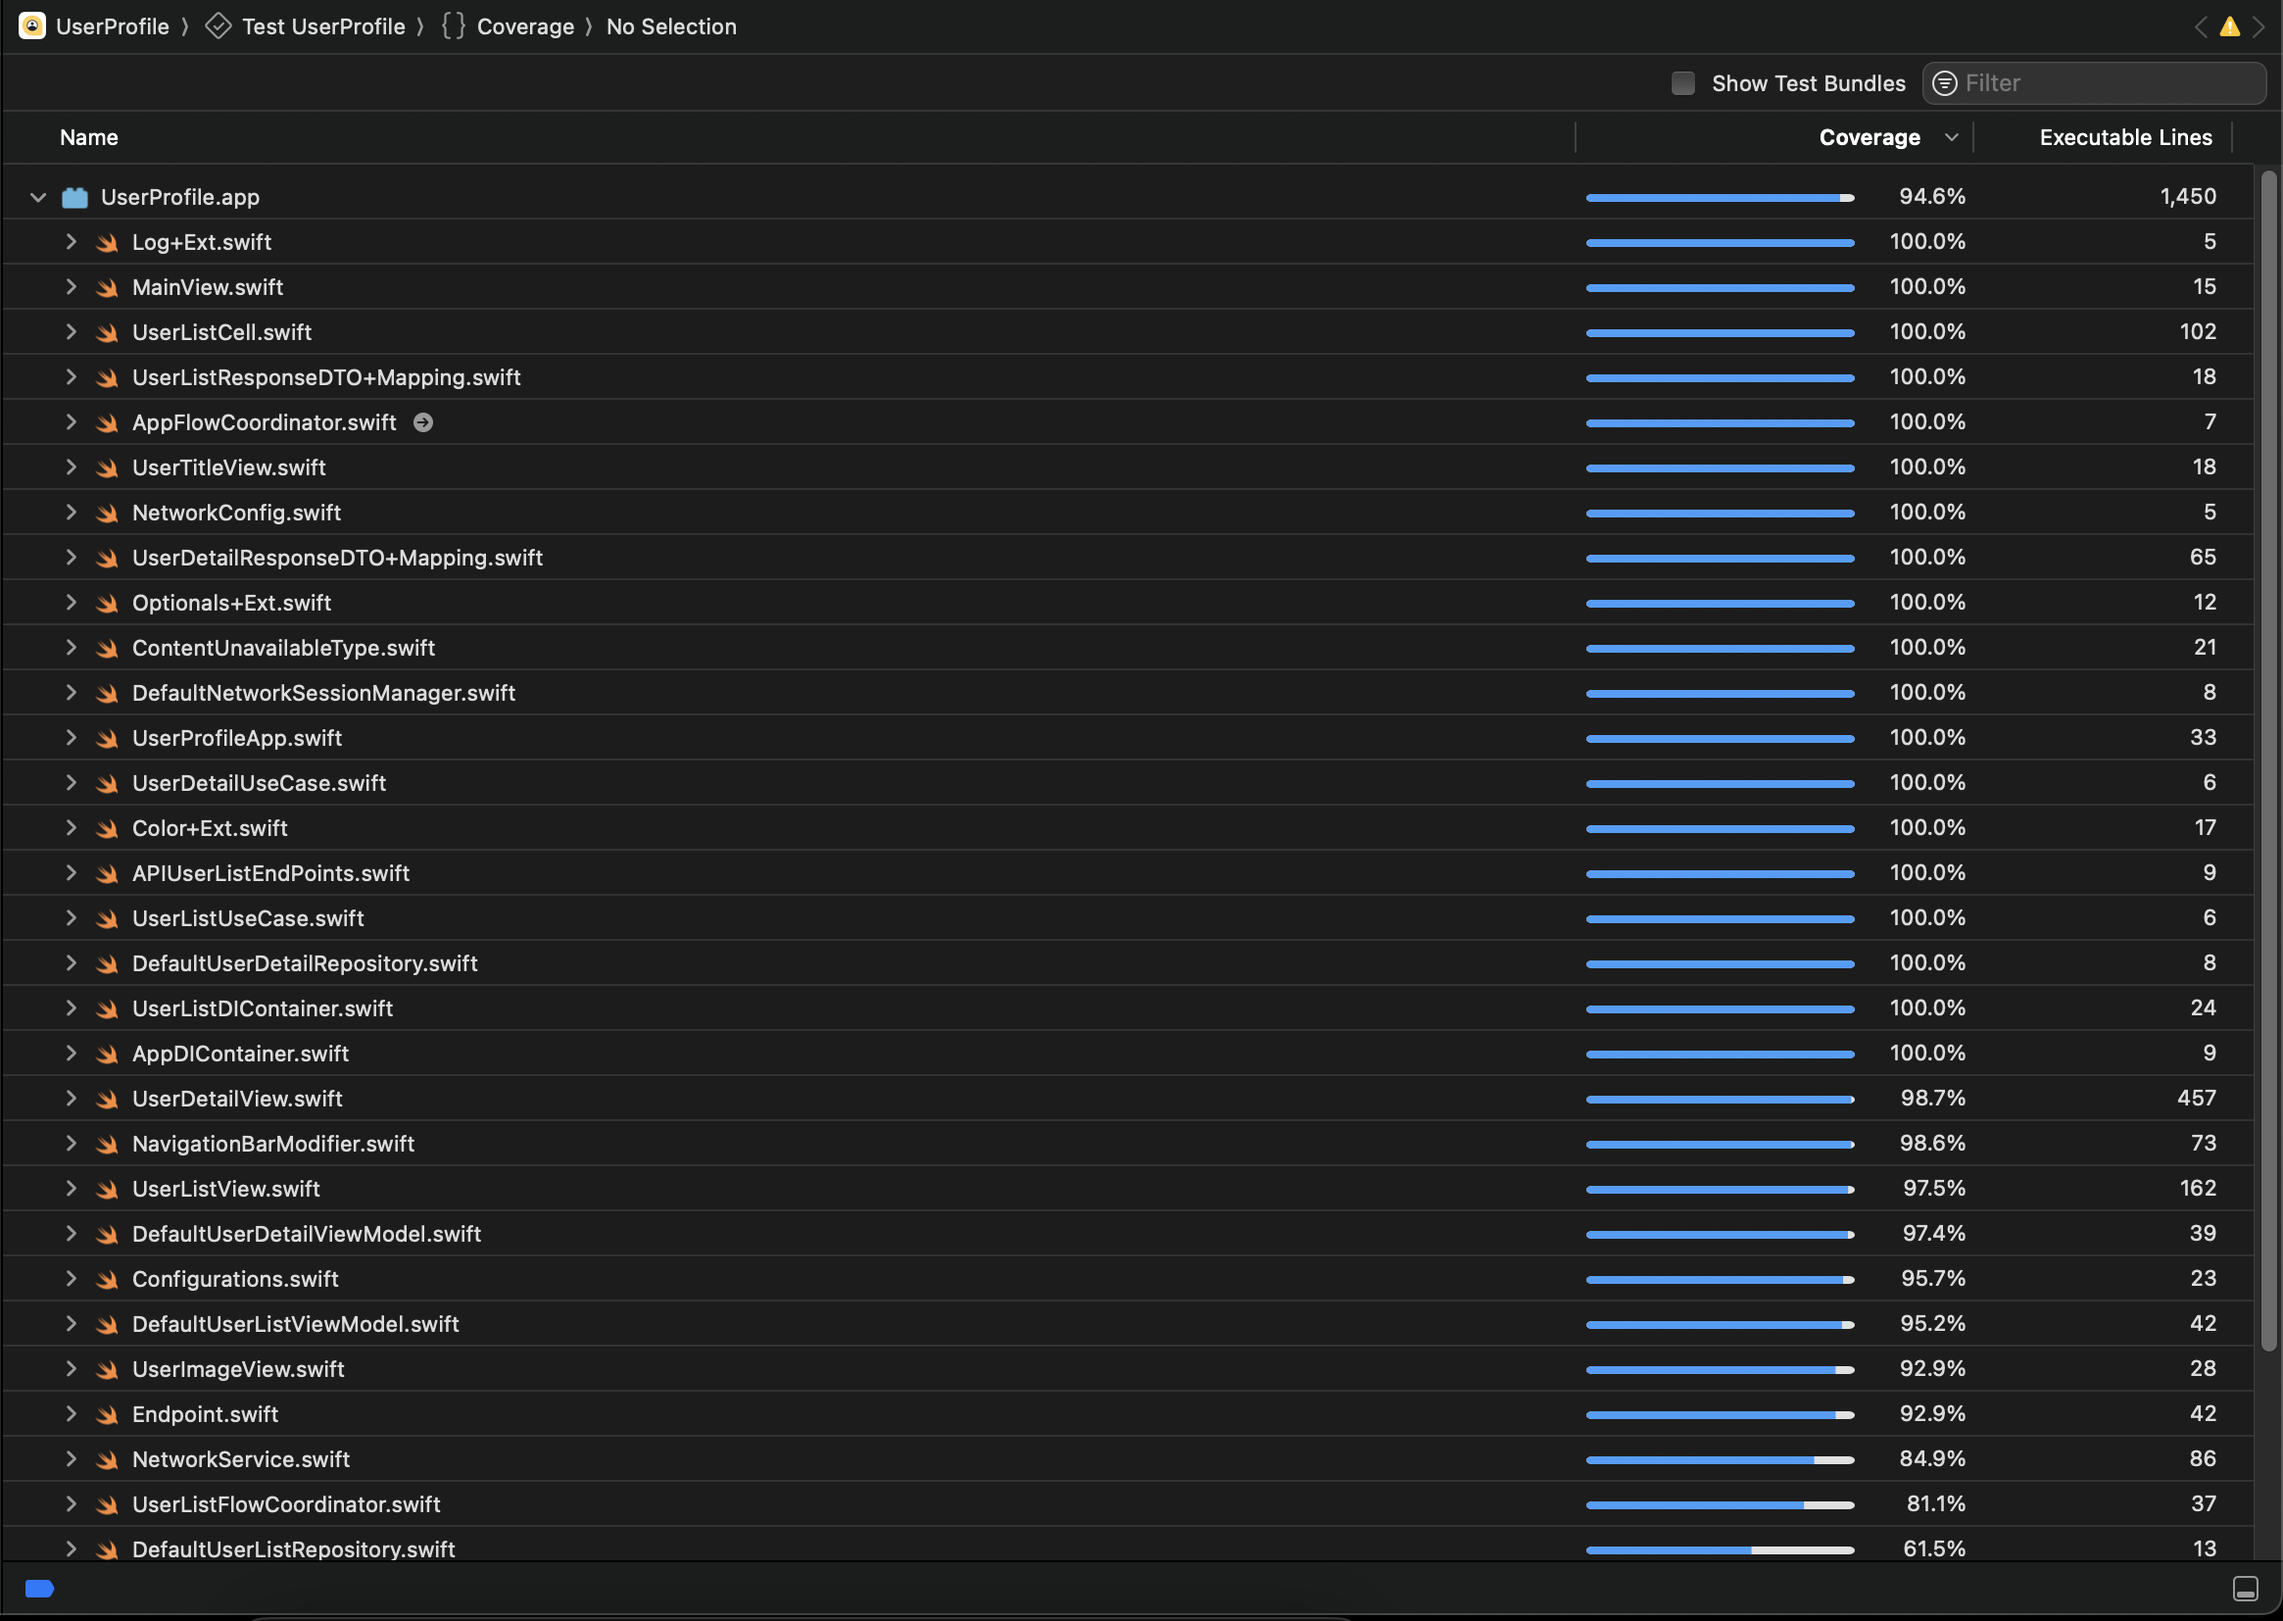
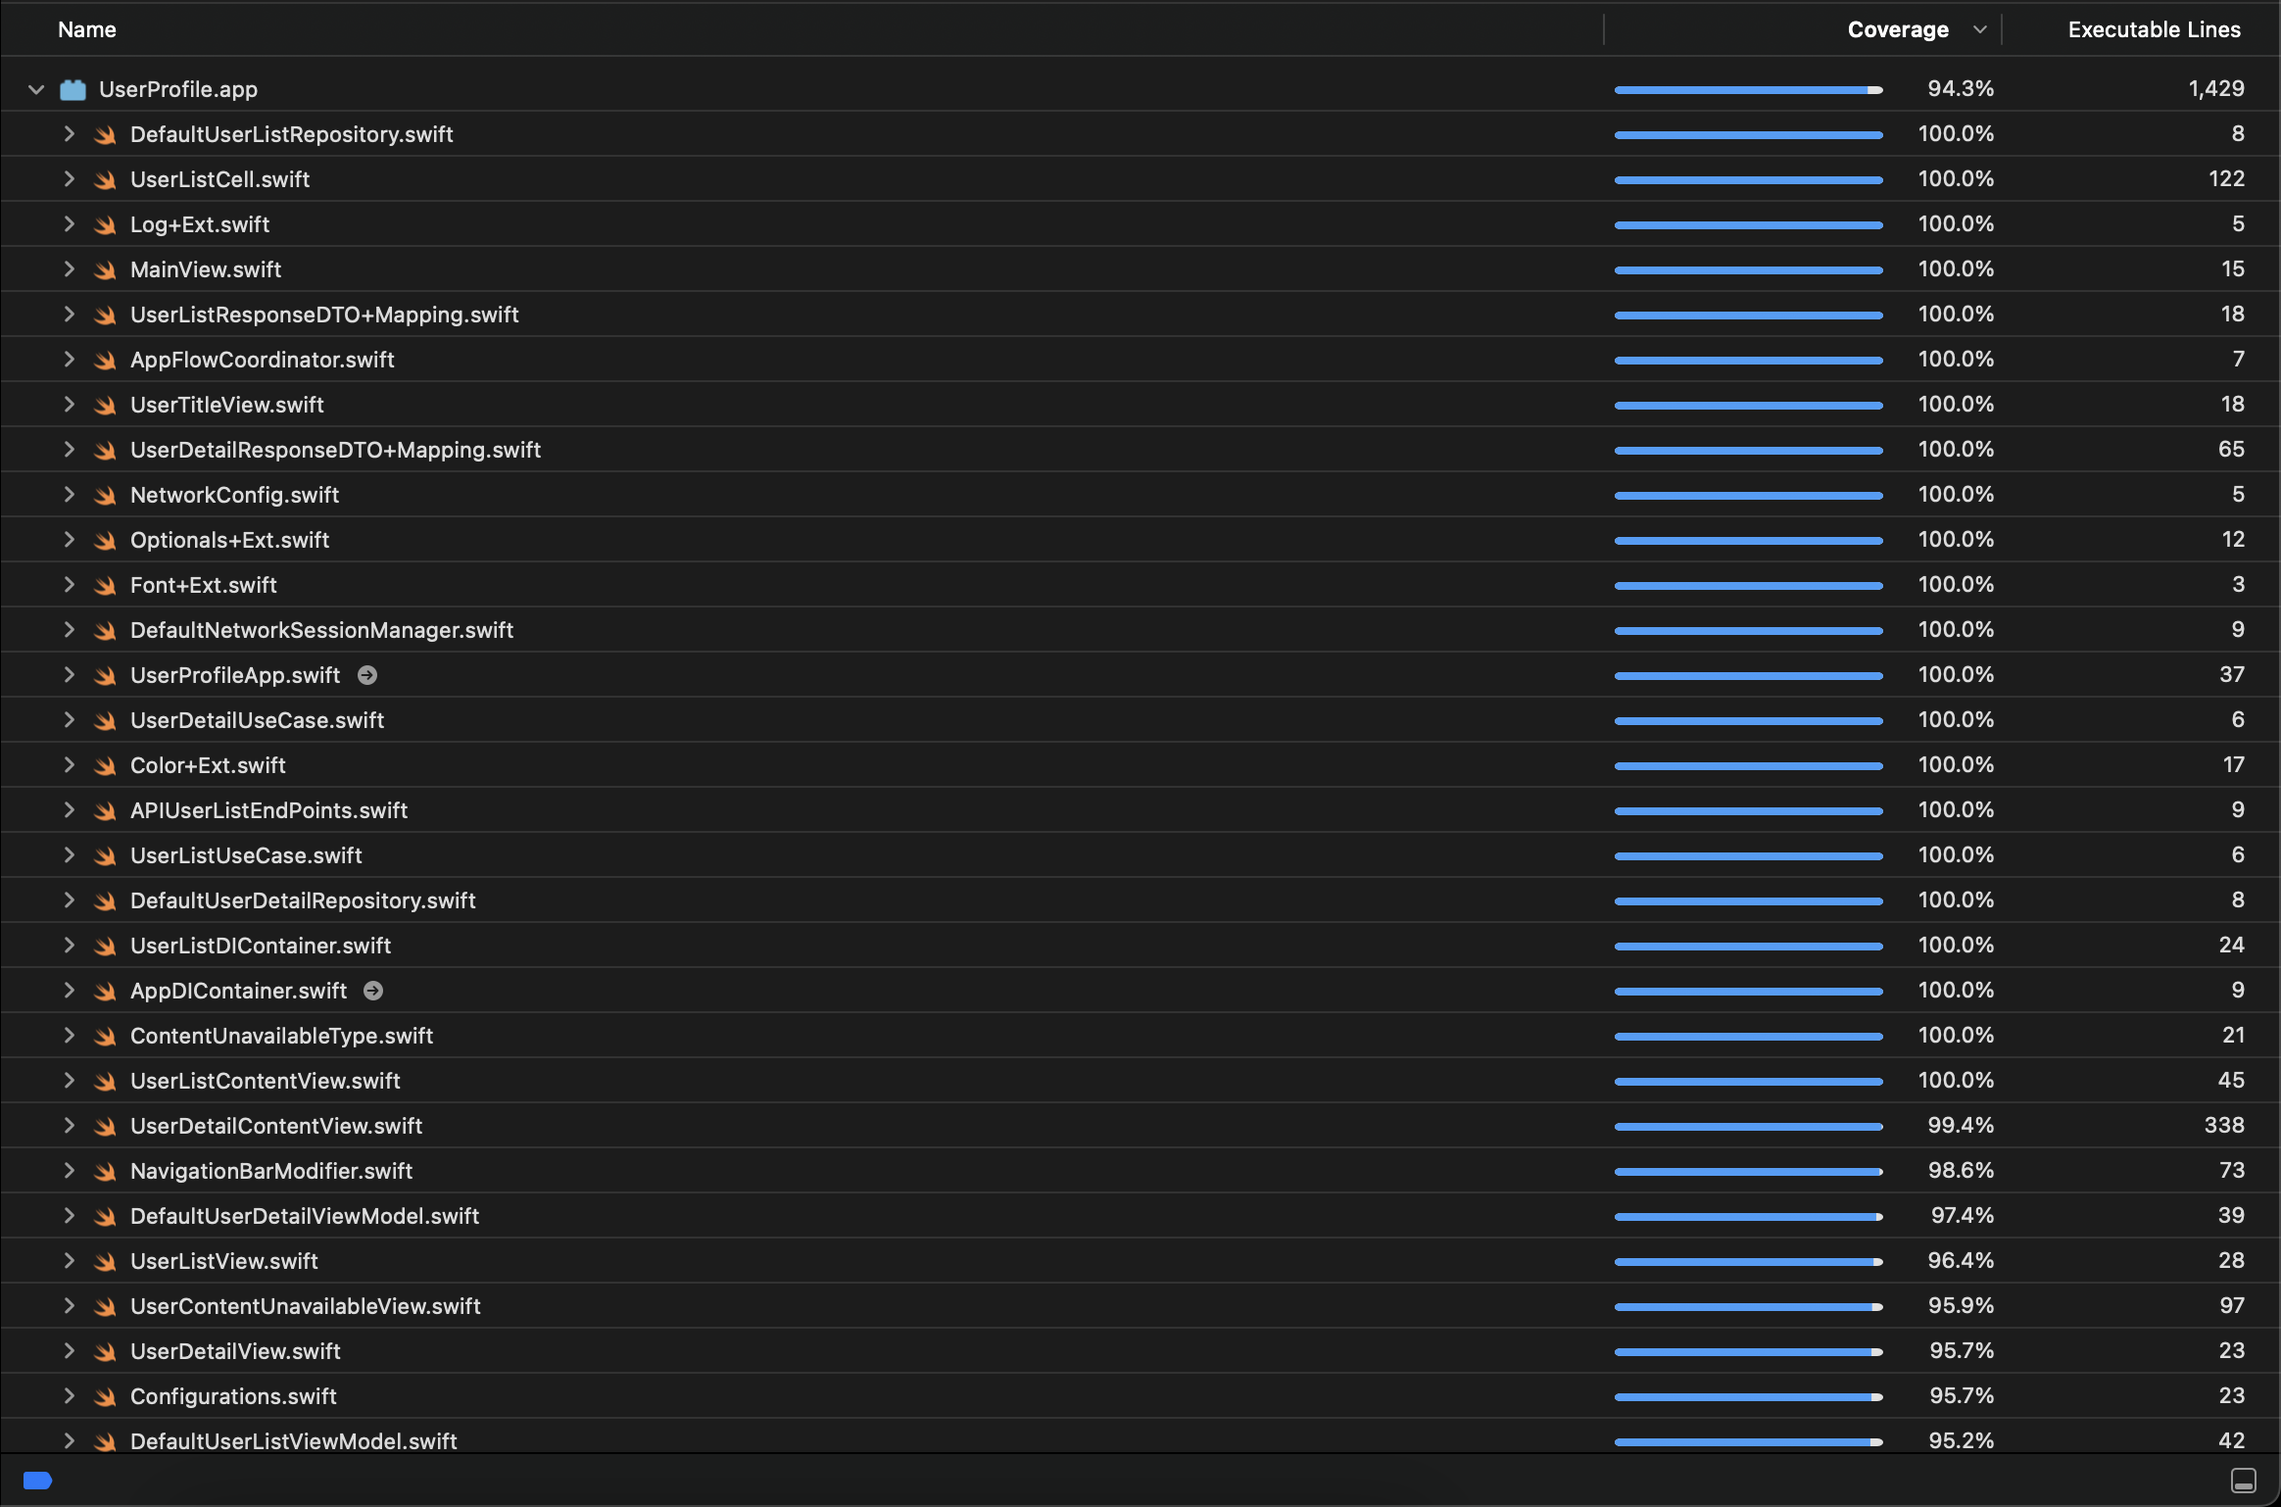
1. Updated ReadMe File 2. Some Minor changes in Domain Layer

Changed region(s): [[0.0, 0.0, 1.0, 1.0], [0.0, 0.0, 0.3402, 0.9675]]

diff --git a/Projects/UserProfile/Infrastructure/Network/Endpoint.swift b/Projects/UserProfile/Infrastructure/Network/Endpoint.swift
@@ -60,14 +60,16 @@ extension Requestable {
         guard var urlComponents = URLComponents(string: url) else { throw RequestGenerationError.components }
         var urlQueryItems = [URLQueryItem]()
         
-        let queryParameters = try queryParametersEncodable?.toDictionary() ?? self.queryParameters
-        queryParameters.forEach {
-            urlQueryItems.append(URLQueryItem(name: $0.key, value: "\($0.value)"))
+        if let queryParameters = try queryParametersEncodable?.toDictionary() {
+            queryParameters.forEach {
+                urlQueryItems.append(URLQueryItem(name: $0.key, value: "\($0.value)"))
+            }
         }
         
         networkConfig.queryParameters.forEach {
             urlQueryItems.append(URLQueryItem(name: $0.key, value: $0.value))
         }
+        
         urlComponents.queryItems = !urlQueryItems.isEmpty ? urlQueryItems : nil
         
         guard let url = urlComponents.url else { throw RequestGenerationError.components }

diff --git a/Projects/UserProfileTests/Infrastructure/Network/Mocks/NetworkSessionManagerMock.swift b/Projects/UserProfileTests/Infrastructure/Network/Mocks/NetworkSessionManagerMock.swift
@@ -14,12 +14,6 @@ struct NetworkSessionManagerMock: NetworkSessionManager {
     let data: Data?
     let error: Error?
     
-    func request(_ request: URLRequest,
-                 completion: @escaping completionHandler) -> NetworkCancellable {
-        completion(data, response, error)
-        return URLSession.shared.dataTask(with: request)
-    }
-    
     func request(_ request: URLRequest) async throws -> (data: Data, response: URLResponse) {
         guard let data, let response else {
             throw error!

diff --git a/Projects/UserProfile/Infrastructure/Network/NetworkService.swift b/Projects/UserProfile/Infrastructure/Network/NetworkService.swift
@@ -22,14 +22,10 @@ protocol NetworkCancellable {
 extension URLSessionTask: NetworkCancellable { }
 
 protocol NetworkService {
-    typealias completionHandler = (Result<Data?, NetworkError>) -> Void
-    
     func request<T: Requestable>(_ endpoint: T) async throws -> (data: Data, response: URLResponse)
 }
 
 protocol NetworkSessionManager {
-    typealias completionHandler = (Data?, URLResponse?, Error?) -> Void
-    
     func request(_ request: URLRequest) async throws -> (data: Data, response: URLResponse)
 }
 

diff --git a/Projects/UserProfile/Data/Repositories/DefaultUserListRepository.swift b/Projects/UserProfile/Data/Repositories/DefaultUserListRepository.swift
@@ -26,13 +26,3 @@ extension DefaultUserListRepository: UserListRepository {
         return try await dataTransferService.request(with: endpoint).toDomain()
     }
 }
-
-final class RepositoryTask: Cancellable {
-    var networkTask: NetworkCancellable?
-    var isCancelled: Bool = false
-    
-    func cancel() {
-        networkTask?.cancel()
-        isCancelled = true
-    }
-}

diff --git a/Projects/UserProfile/Infrastructure/Network/DataTransferService.swift b/Projects/UserProfile/Infrastructure/Network/DataTransferService.swift
@@ -15,8 +15,6 @@ enum DataTransferError: Error {
 }
 
 protocol DataTransferService {
-    typealias completionHandler<T> = (Result<T, DataTransferError>) -> Void
-    
     func request<T: Decodable, E: ResponseRequestable>(with endpoint: E) async throws -> T where T == E.Response
 }
 

diff --git a/README.md b/README.md
@@ -17,7 +17,7 @@ The user profile app features a user-friendly interface for exploring user detai
 
 - Clean Architecture with MVVM, DI and Coordinator pattern
 - SwiftUI + Combine
-- Unit Test cases (94.6% Code-Coverage)
+- Unit Test cases (94.3% Code-Coverage)
 - Designed for scalability
 - Modular code
 - Snapshots testing included on iOS 17.2, iPhone 15
